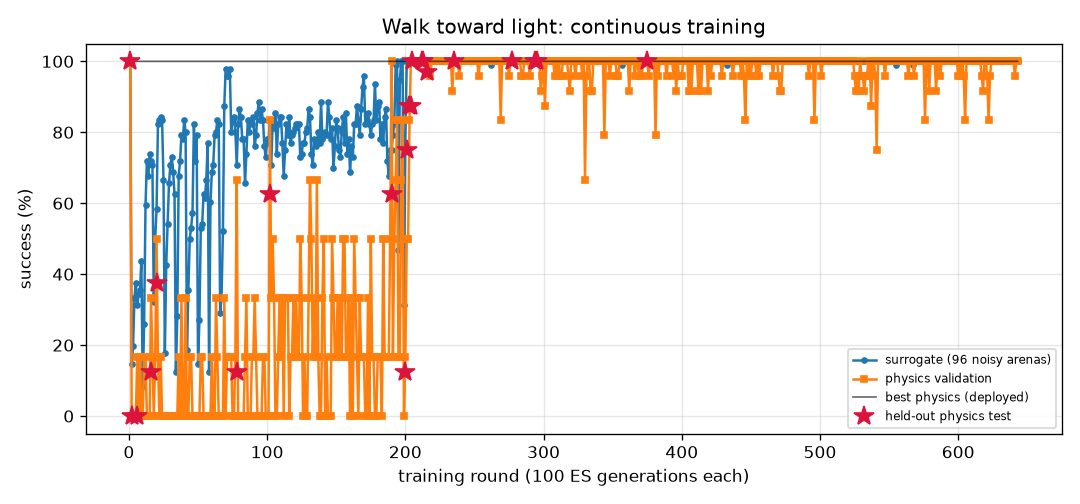
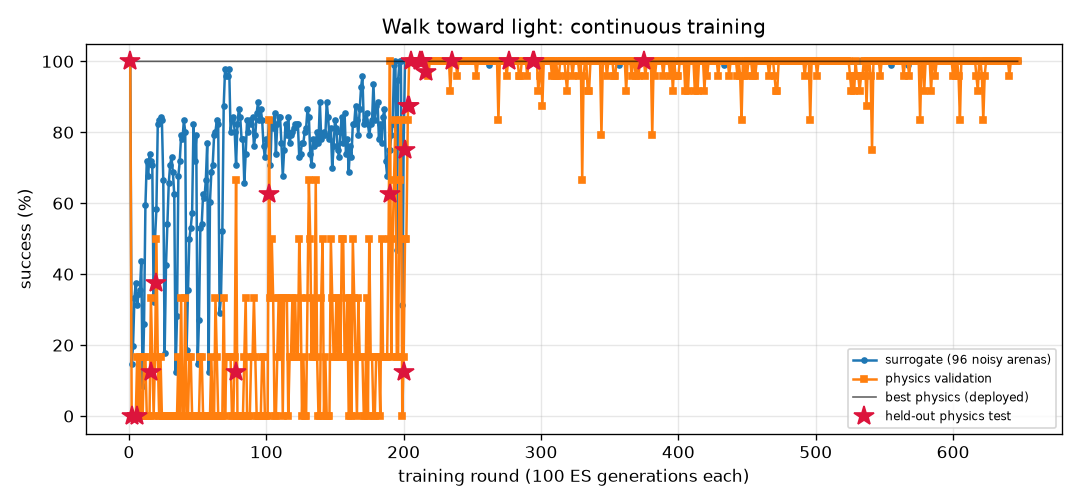
FlyLab: continuous training progress
- walk_forward: optimal, physics val 100% of 24, round 570
- turn: optimal, physics val 100% of 24, round 1416
- goto: optimal, physics val 100% of 24, round 440
- odor_seek: optimal, physics val 100% of 24, round 353
- odor_avoid: optimal, physics val 100% of 24, round 1186
- light_seek: optimal, physics val 100% of 24, round 647
- light_avoid: optimal, physics val 100% of 24, round 901

diff --git a/projects/09_flylab/training/light_avoid/REPORT.md b/projects/09_flylab/training/light_avoid/REPORT.md
@@ -1,14 +1,14 @@
 # Hide from light (`light_avoid`) — training report
 
-*Auto-generated by `train_brains.py`, last updated 2026-11-27T19:50:05.*
+*Auto-generated by `train_brains.py`, last updated 2026-11-27T20:39:04.*
 
 ![curve](curve.png)
 
 | | |
 |---|---|
-| rounds | 896 |
-| ES generations | 89600 |
-| physics runs | 21776 |
+| rounds | 901 |
+| ES generations | 90100 |
+| physics runs | 21896 |
 | status | **optimal** |
 | best brain | round 159: physics validation **100%** on 24 arenas, surrogate 100% |
 | held-out physics test | **100%** on 32 unseen arenas (95% CI 89%-100%) (errors: [14.4, 56.1, 58.0, 57.9, 57.5, 14.0, 14.4, 56.6, 56.8, 13.3, 14.1, 56.6, 57.6, 13.1, 57.3, 55.9, 57.2, 55.0, 55.2, 53.9, 55.2, 12.4, 53.8, 53.7, 14.1, 13.7, 55.0, 57.8, 56.2, 13.1, 52.8, 56.5]) |
@@ -17,11 +17,6 @@ Physics error per arena: mm gained away from source (> 6 without first approachi
 
 | round | level | gens | sigma | surrogate | physics val | val errors | test | note |
 |---:|---:|---:|---:|---:|---:|---|---:|---|
-| 857 | 3 | 85700 | 0.024 | 100% | 100% | [48.8, 50.4, 49.9, 49.5, 52.7, 49.2, 47.6, 14.5, 12.7, 13.4, 49.8, 52.8, 14.4, 52.4, 49.9, 48.6, 14.2, 52.7, 50.2, 14.4, 50.1, 50.8, 48.3, 52.6] |  |  |
-| 858 | 3 | 85800 | 0.024 | 99% | 100% | [53.7, 57.7, 57.4, 54.1, 58.8, 54.4, 55.8, 14.5, 12.9, 13.4, 8.9, 58.8, 14.4, 56.7, 57.5, 53.7, 14.2, 59.1, 58.2, 14.4, 55.2, 46.5, 55.4, 58.5] |  |  |
-| 859 | 3 | 85900 | 0.025 | 98% | 96% | [45.4, 47.1, 46.9, 45.0, 45.3, 45.6, 46.0, 14.5, 13.0, 13.4, 10.2, 45.0, 14.4, 7.9, 47.1, 45.7, 14.2, 45.8, 47.4, 14.4, 45.6, 11.3, 45.3, 44.4] |  | restart from best |
-| 860 | 3 | 86000 | 0.024 | 100% | 100% | [39.9, 41.0, 42.0, 41.6, 44.3, 42.5, 39.9, 14.5, 39.8, 13.4, 41.4, 44.5, 14.3, 43.4, 43.1, 40.2, 14.2, 44.1, 43.1, 14.4, 38.9, 40.6, 40.0, 43.3] |  |  |
-| 861 | 3 | 86100 | 0.024 | 100% | 100% | [39.4, 40.7, 40.5, 40.4, 41.5, 41.1, 38.3, 14.5, 34.8, 13.5, 38.4, 41.8, 14.4, 40.1, 40.5, 40.5, 14.2, 42.2, 41.4, 14.4, 40.8, 39.6, 37.6, 41.5] |  |  |
 | 862 | 3 | 86200 | 0.024 | 100% | 100% | [49.2, 52.7, 52.7, 50.8, 54.6, 50.7, 50.9, 14.5, 48.0, 13.3, 53.9, 54.5, 14.4, 54.2, 52.6, 49.6, 14.2, 54.7, 52.7, 14.4, 52.2, 54.1, 50.7, 54.4] |  |  |
 | 863 | 3 | 86300 | 0.024 | 100% | 100% | [55.3, 57.4, 57.3, 54.7, 53.8, 54.0, 56.7, 14.5, 50.0, 13.3, 56.2, 53.6, 14.4, 53.2, 57.2, 54.6, 14.2, 55.3, 57.0, 14.4, 55.2, 56.0, 56.9, 52.4] |  | restart from best |
 | 864 | 3 | 86400 | 0.024 | 100% | 100% | [38.2, 37.5, 37.6, 40.1, 39.0, 40.5, 35.5, 14.5, 36.1, 13.2, 40.2, 40.3, 14.4, 39.0, 38.3, 40.0, 14.2, 38.9, 36.8, 14.4, 38.5, 38.5, 35.1, 40.9] |  |  |
@@ -57,3 +52,8 @@ Physics error per arena: mm gained away from source (> 6 without first approachi
 | 894 | 3 | 89400 | 0.025 | 98% | 96% | [43.9, 43.2, 43.3, 43.7, 35.7, 44.5, 43.8, 14.5, 13.0, 13.4, 10.3, 35.4, 14.4, 8.0, 42.8, 43.2, 14.2, 38.9, 42.3, 14.4, 44.1, 11.3, 42.6, 34.5] |  |  |
 | 895 | 3 | 89500 | 0.025 | 98% | 96% | [51.4, 55.2, 54.9, 52.3, 55.0, 51.2, 53.6, 14.5, 13.0, 13.4, 10.2, 54.9, 14.4, 8.0, 55.1, 51.4, 14.2, 55.4, 55.7, 14.4, 52.9, 11.3, 53.3, 54.4] |  | restart from best |
 | 896 | 3 | 89600 | 0.024 | 100% | 100% | [45.6, 46.7, 46.2, 47.2, 50.6, 46.5, 44.3, 14.5, 43.9, 13.3, 49.0, 50.6, 14.4, 49.8, 46.3, 46.2, 14.2, 49.9, 47.2, 14.4, 45.8, 48.7, 45.3, 50.5] |  |  |
+| 897 | 3 | 89700 | 0.024 | 100% | 100% | [52.3, 56.9, 56.6, 53.2, 57.5, 53.1, 55.2, 14.5, 53.1, 13.3, 55.8, 57.3, 14.4, 55.9, 56.7, 53.7, 14.2, 57.8, 57.0, 14.4, 55.1, 56.2, 54.6, 56.9] |  |  |
+| 898 | 3 | 89800 | 0.024 | 100% | 100% | [54.7, 56.5, 56.3, 55.2, 57.0, 53.0, 54.6, 14.5, 50.7, 13.5, 55.7, 56.8, 14.4, 54.3, 56.5, 53.9, 14.2, 57.3, 56.6, 14.4, 51.9, 55.4, 54.4, 56.4] |  |  |
+| 899 | 3 | 89900 | 0.024 | 100% | 100% | [54.2, 56.4, 56.2, 54.5, 55.3, 54.5, 55.2, 14.5, 50.6, 13.5, 55.1, 55.0, 14.4, 53.5, 56.3, 53.1, 14.2, 55.8, 56.6, 14.4, 52.8, 54.3, 55.1, 54.5] |  | restart from best |
+| 900 | 3 | 90000 | 0.024 | 100% | 100% | [43.4, 46.4, 45.9, 46.3, 47.0, 43.3, 44.5, 14.5, 42.3, 13.4, 46.0, 47.0, 14.4, 46.6, 46.1, 47.3, 14.2, 47.6, 46.3, 14.4, 46.0, 46.8, 44.8, 46.6] |  |  |
+| 901 | 3 | 90100 | 0.024 | 100% | 100% | [53.3, 57.8, 57.5, 54.3, 58.1, 54.4, 56.0, 14.5, 54.2, 13.2, 57.2, 58.0, 14.4, 55.7, 57.6, 53.3, 14.2, 58.6, 58.0, 14.4, 51.3, 57.2, 55.7, 57.6] |  |  |

diff --git a/projects/09_flylab/training/light_seek/REPORT.md b/projects/09_flylab/training/light_seek/REPORT.md
@@ -1,14 +1,14 @@
 # Walk toward light (`light_seek`) — training report
 
-*Auto-generated by `train_brains.py`, last updated 2026-11-27T17:23:52.*
+*Auto-generated by `train_brains.py`, last updated 2026-11-27T20:54:06.*
 
 ![curve](curve.png)
 
 | | |
 |---|---|
-| rounds | 643 |
-| ES generations | 64300 |
-| physics runs | 12312 |
+| rounds | 647 |
+| ES generations | 64700 |
+| physics runs | 12408 |
 | status | **optimal** |
 | best brain | round 375: physics validation **100%** on 24 arenas, surrogate 100% |
 | held-out physics test | **100%** on 32 unseen arenas (95% CI 89%-100%) (errors: [0.57, 0.54, 0.53, 0.57, 0.55, 0.56, 0.59, 0.56, 0.53, 0.56, 0.71, 0.56, 0.55, 0.54, 0.53, 0.54, 0.54, 0.55, 0.52, 0.65, 0.64, 0.7, 0.58, 0.57, 0.6, 0.62, 0.55, 0.88, 0.54, 0.52, 0.62, 0.57]) |
@@ -17,10 +17,6 @@ Physics error per arena: mm from target at the end (< 1.5 and standing still = s
 
 | round | level | gens | sigma | surrogate | physics val | val errors | test | note |
 |---:|---:|---:|---:|---:|---:|---|---:|---|
-| 604 | 3 | 60400 | 0.024 | 100% | 96% | [0.68, 0.75, 0.84, 3.69, 0.67, 0.56, 0.74, 0.67, 0.75, 0.78, 0.79, 0.68, 0.76, 0.86, 0.67, 0.72, 0.69, 0.62, 0.65, 0.93, 0.73, 0.64, 0.71, 0.75] |  |  |
-| 605 | 3 | 60500 | 0.024 | 100% | 83% | [0.96, 0.6, 0.73, 0.6, 0.7, 0.62, 0.63, 0.61, 2.47, 0.78, 1.03, 0.73, 1.97, 0.61, 2.8, 1.57, 0.73, 0.58, 0.59, 0.6, 0.69, 1.0, 1.08, 0.63] |  |  |
-| 606 | 3 | 60600 | 0.024 | 100% | 100% | [0.59, 0.64, 0.56, 0.58, 0.58, 0.76, 1.02, 0.6, 0.88, 0.56, 0.62, 0.64, 0.82, 0.68, 0.57, 0.66, 0.76, 1.19, 0.58, 0.72, 0.57, 0.77, 0.52, 0.6] |  |  |
-| 607 | 3 | 60700 | 0.024 | 100% | 100% | [0.62, 0.61, 0.65, 0.64, 0.67, 0.53, 0.58, 0.59, 0.71, 0.61, 0.68, 0.6, 1.04, 0.62, 0.68, 0.63, 0.98, 0.52, 0.61, 0.55, 0.68, 0.6, 0.56, 0.51] |  | restart from best |
 | 608 | 3 | 60800 | 0.024 | 100% | 100% | [0.52, 0.51, 0.49, 0.51, 0.55, 0.47, 0.55, 0.49, 0.59, 0.57, 0.53, 0.49, 0.54, 0.52, 0.46, 0.59, 0.53, 0.52, 0.47, 0.52, 0.52, 0.51, 0.53, 0.67] |  |  |
 | 609 | 3 | 60900 | 0.024 | 100% | 100% | [0.54, 0.65, 0.56, 0.52, 0.54, 0.52, 0.65, 0.56, 0.73, 0.54, 0.67, 0.55, 0.67, 0.53, 0.53, 0.56, 0.51, 0.51, 0.53, 0.71, 0.62, 0.56, 0.62, 0.52] |  |  |
 | 610 | 3 | 61000 | 0.024 | 100% | 100% | [0.51, 0.51, 0.58, 0.55, 0.48, 0.5, 0.48, 0.48, 1.04, 0.51, 0.47, 0.47, 0.64, 1.08, 0.97, 0.58, 0.47, 0.53, 0.52, 0.57, 0.55, 0.58, 0.62, 0.48] |  |  |
@@ -57,3 +53,7 @@ Physics error per arena: mm from target at the end (< 1.5 and standing still = s
 | 641 | 3 | 64100 | 0.024 | 100% | 96% | [0.98, 0.71, 0.56, 0.65, 0.61, 0.59, 0.48, 0.55, 0.52, 0.53, 0.52, 0.51, 0.63, 0.6, 0.67, 0.6, 0.59, 0.57, 0.51, 0.56, 0.52, 1.91, 0.63, 0.78] |  |  |
 | 642 | 3 | 64200 | 0.024 | 100% | 100% | [0.56, 0.61, 0.6, 1.1, 0.55, 1.12, 1.12, 0.53, 0.52, 0.48, 1.17, 0.63, 0.6, 0.54, 0.62, 0.55, 0.58, 0.6, 0.58, 0.58, 0.49, 0.57, 0.57, 0.61] |  |  |
 | 643 | 3 | 64300 | 0.024 | 100% | 100% | [0.47, 0.55, 1.03, 0.5, 0.53, 0.59, 0.5, 0.6, 0.51, 0.57, 0.5, 0.52, 0.56, 0.61, 0.52, 0.64, 0.51, 0.47, 0.51, 0.46, 0.49, 0.46, 0.57, 0.6] |  | restart from best |
+| 644 | 3 | 64400 | 0.024 | 100% | 100% | [0.62, 0.61, 0.58, 0.65, 0.63, 0.7, 0.6, 0.6, 0.75, 0.68, 0.65, 0.58, 0.62, 0.71, 0.75, 0.61, 0.64, 0.66, 0.6, 0.62, 0.69, 0.68, 0.61, 0.66] |  |  |
+| 645 | 3 | 64500 | 0.024 | 100% | 100% | [0.65, 0.58, 0.56, 0.57, 0.54, 0.64, 0.65, 0.65, 0.67, 0.6, 0.56, 0.63, 0.56, 0.65, 0.66, 0.63, 0.56, 0.6, 0.56, 0.51, 0.62, 0.56, 0.53, 0.48] |  |  |
+| 646 | 3 | 64600 | 0.024 | 100% | 100% | [0.62, 0.58, 0.62, 0.59, 0.62, 0.48, 0.6, 0.51, 0.56, 0.67, 0.57, 0.51, 0.89, 0.54, 0.51, 0.55, 0.6, 0.99, 0.54, 0.54, 0.96, 0.95, 0.51, 0.59] |  |  |
+| 647 | 3 | 64700 | 0.024 | 100% | 100% | [0.6, 0.51, 0.52, 0.6, 0.58, 0.54, 0.52, 0.55, 0.51, 0.5, 0.52, 0.52, 0.58, 0.61, 0.51, 0.51, 0.51, 0.58, 0.52, 0.51, 0.59, 0.57, 0.51, 0.5] |  | restart from best |

diff --git a/projects/09_flylab/training/goto/REPORT.md b/projects/09_flylab/training/goto/REPORT.md
@@ -1,14 +1,14 @@
 # Go to a location (`goto`) — training report
 
-*Auto-generated by `train_brains.py`, last updated 2026-11-27T17:22:39.*
+*Auto-generated by `train_brains.py`, last updated 2026-11-27T20:56:12.*
 
 ![curve](curve.png)
 
 | | |
 |---|---|
-| rounds | 439 |
-| ES generations | 43900 |
-| physics runs | 10486 |
+| rounds | 440 |
+| ES generations | 44000 |
+| physics runs | 10510 |
 | status | **optimal** |
 | best brain | round 176: physics validation **100%** on 24 arenas, surrogate 100% |
 | held-out physics test | **100%** on 32 unseen arenas (95% CI 89%-100%) (errors: [0.2, 0.32, 0.19, 0.24, 0.18, 0.2, 0.19, 0.17, 0.22, 0.23, 0.23, 0.26, 0.2, 0.19, 0.24, 0.23, 0.22, 0.24, 0.2, 0.22, 0.2, 0.2, 0.26, 0.19, 0.22, 0.18, 0.26, 0.22, 0.2, 0.26, 0.23, 0.23]) |
@@ -17,7 +17,6 @@ Physics error per arena: mm from target at the end (< 1.5 and standing still = s
 
 | round | level | gens | sigma | surrogate | physics val | val errors | test | note |
 |---:|---:|---:|---:|---:|---:|---|---:|---|
-| 400 | 3 | 40000 | 0.025 | 99% | 100% | [0.67, 0.61, 0.63, 0.5, 0.44, 0.53, 0.67, 0.56, 0.63, 0.47, 0.44, 0.49, 0.6, 0.41, 0.52, 0.5, 0.59, 0.53, 0.47, 0.57, 0.5, 0.47, 0.6, 0.49] |  | restart from best |
 | 401 | 3 | 40100 | 0.024 | 99% | 100% | [0.49, 0.42, 0.37, 0.38, 0.33, 0.34, 0.48, 0.39, 0.41, 0.35, 0.35, 0.37, 0.44, 0.32, 0.42, 0.38, 0.46, 0.38, 0.34, 0.44, 0.36, 0.37, 0.45, 0.35] |  |  |
 | 402 | 3 | 40200 | 0.025 | 100% | 100% | [0.49, 0.49, 0.39, 0.42, 0.41, 0.39, 0.5, 0.4, 0.47, 0.41, 0.38, 0.42, 0.5, 0.38, 0.45, 0.46, 0.51, 0.4, 0.4, 0.46, 0.44, 0.42, 0.49, 0.42] |  |  |
 | 403 | 3 | 40300 | 0.024 | 100% | 100% | [0.54, 0.53, 0.53, 0.48, 0.47, 0.45, 0.52, 0.48, 0.51, 0.49, 0.47, 0.49, 0.56, 0.45, 0.53, 0.55, 0.56, 0.49, 0.5, 0.52, 0.51, 0.48, 0.55, 0.47] |  |  |
@@ -57,3 +56,4 @@ Physics error per arena: mm from target at the end (< 1.5 and standing still = s
 | 437 | 3 | 43700 | 0.024 | 100% | 100% | [0.42, 0.38, 0.32, 0.37, 0.3, 0.34, 0.43, 0.37, 0.38, 0.31, 0.32, 0.37, 0.4, 0.29, 0.35, 0.34, 0.43, 0.34, 0.31, 0.41, 0.31, 0.35, 0.4, 0.35] |  |  |
 | 438 | 3 | 43800 | 0.024 | 99% | 100% | [0.49, 0.44, 0.43, 0.4, 0.34, 0.37, 0.51, 0.38, 0.43, 0.36, 0.35, 0.38, 0.45, 0.31, 0.43, 0.39, 0.48, 0.38, 0.37, 0.45, 0.37, 0.39, 0.45, 0.37] |  |  |
 | 439 | 3 | 43900 | 0.025 | 99% | 100% | [0.53, 0.47, 0.49, 0.39, 0.33, 0.37, 0.49, 0.44, 0.52, 0.34, 0.33, 0.39, 0.47, 0.33, 0.38, 0.4, 0.51, 0.41, 0.32, 0.44, 0.38, 0.36, 0.5, 0.38] |  |  |
+| 440 | 3 | 44000 | 0.025 | 100% | 100% | [0.5, 0.48, 0.46, 0.4, 0.38, 0.39, 0.49, 0.39, 0.49, 0.38, 0.37, 0.38, 0.46, 0.37, 0.44, 0.43, 0.4, 0.38, 0.37, 0.44, 0.42, 0.39, 0.46, 0.39] |  | restart from best |

diff --git a/projects/09_flylab/training/TRAINING.md b/projects/09_flylab/training/TRAINING.md
@@ -1,6 +1,6 @@
 # FlyLab brains — continuous training log
 
-*Auto-generated by `train_brains.py`, last updated 2026-11-27T19:50:05.*
+*Auto-generated by `train_brains.py`, last updated 2026-11-27T20:56:12.*
 
 Every skill has its own brain and its own training process: surrogate ES rounds, physics validation in MuJoCo, keep-the-best selection, and a held-out physics test that is never used for selection. See each skill's report for its full round-by-round history. Mastery is progressive: passing a level (100% physics validation, >=95% surrogate) doubles the validation and test arena sets; a brain is **optimal** once it holds up at level 3 (>=95% of 24 validation arenas) AND scores >=90% on the 32 held-out test arenas. Test columns show 95% Wilson confidence intervals.
 
@@ -8,8 +8,8 @@ Every skill has its own brain and its own training process: surrogate ES rounds,
 |---|---:|---:|---:|---:|---:|---:|---|
 | [Walk forward](walk_forward/REPORT.md) | 570 | 57000 | 13758 | 100% | 100% of 24 | 100% of 32 (CI 89-100%) | **optimal** |
 | [Turn in place](turn/REPORT.md) | 1416 | 141600 | 34230 | 100% | 100% of 24 | 97% of 32 (CI 84-99%) | **optimal** |
-| [Go to a location](goto/REPORT.md) | 439 | 43900 | 10486 | 100% | 100% of 24 | 100% of 32 (CI 89-100%) | **optimal** |
+| [Go to a location](goto/REPORT.md) | 440 | 44000 | 10510 | 100% | 100% of 24 | 100% of 32 (CI 89-100%) | **optimal** |
 | [Find food by smell](odor_seek/REPORT.md) | 353 | 35300 | 7966 | 100% | 100% of 24 | 100% of 32 (CI 89-100%) | **optimal** |
 | [Escape a bad smell](odor_avoid/REPORT.md) | 1186 | 118600 | 25770 | 97% | 100% of 24 | 97% of 32 (CI 84-99%) | **optimal** |
-| [Walk toward light](light_seek/REPORT.md) | 643 | 64300 | 12312 | 100% | 100% of 24 | 100% of 32 (CI 89-100%) | **optimal** |
-| [Hide from light](light_avoid/REPORT.md) | 896 | 89600 | 21776 | 100% | 100% of 24 | 100% of 32 (CI 89-100%) | **optimal** |
+| [Walk toward light](light_seek/REPORT.md) | 647 | 64700 | 12408 | 100% | 100% of 24 | 100% of 32 (CI 89-100%) | **optimal** |
+| [Hide from light](light_avoid/REPORT.md) | 901 | 90100 | 21896 | 100% | 100% of 24 | 100% of 32 (CI 89-100%) | **optimal** |
